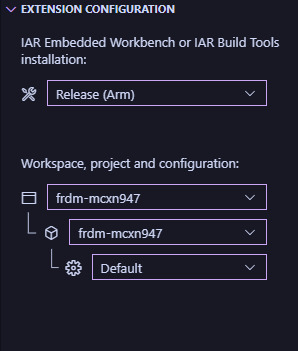
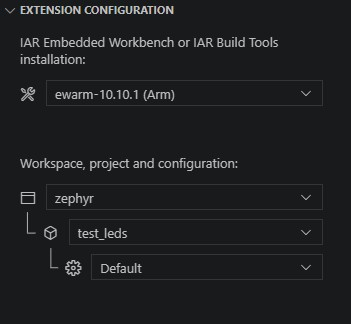
Update documentation
Update the documentation to align with the new workflow.

Changed region(s): [[0.0604, 0.4321, 0.906, 0.8642], [0.0604, 0.0926, 0.9362, 0.3395], [0.0, 0.0, 0.604, 0.0617]]

diff --git a/docs/compiling-debugging.md b/docs/compiling-debugging.md
@@ -1,56 +1,25 @@
 ## Compiling and Debugging with EWARM
-Once you have everything set up from the previous steps, you are ready to start compiling and debugging demo projects using Embedded Workbench.
-
-### Creating Initial Builds with West
-Before building and debugging one of the sample projects inside Embedded Workbench, you first have to make an initial build using Zephyr's ``west`` command line tool.
-The reason for this is because the initial build using ``west`` produces necessary build files and configurations for your specific application and target system that gets cached in the build folder for later builds with Embedded Workbench.
-
-``west`` should be installed and ready to use after having followed the [Zephyr Setup Guide](./zephyr.md).
-Follow one of the below sections depending on the board you are building for, replacing the paths in the command with the correct paths for your system:
-
-#### nRF52840 DK
-```bash
-west build -b nrf52840dk/nrf52840 -d <path-to-nrf52840dk-folder>/workbench/build <path-to-nrf52840dk-folder>/led_carousel -p -- -DCONFIG_USE_SEGGER_RTT=n
-```
-
-#### micro:bit
-```bash
-west build -b bbc_microbit -d <path-to-microbit-folder>/workbench/build <path-to-microbit-folder>/snake -p
-```
-
-#### FRDM-MCXN947
-```bash
-west build -b frdm_mcxn947/mcxn947/cpu0 -d <path-to-frdm_mcxn947-folder>/workbench/build <path-to-frdm_mcxn947-folder>/blinky -p
-```
-
-#### STM32F429II-ACA
-```bash
-west build -b stm32f429ii_aca -d <path-to-stm32f429ii_aca-folder>/test_leds/workbench/build <path-to-stm32f429ii_aca-folder>/test_leds/zephyr-project -p
-```
-
-Building with ``west`` is only necessary for the first build.
-Afterwards, for each modification to the program it can be compiled using EWARM.
+Once you have everything set up from the previous steps, you are ready to start compiling and
+debugging your project using Embedded Workbench.
 
 ### Building a Project using EWARM
-Once you have done an initial build using ``west`` of the sample project you are testing, it is ready to be built with EWARM:
+Once you have done an initial build using `west` of the sample project you are testing, it is ready
+to be built with EWARM. To build your project in EWARM press **F7** or navigate to
+**Project -> Make** to build the project.
 
-1. Open up the EWARM IDE. From your EWARM installation folder, the executable for the IDE is located at *``common\bin\IarIdePm.exe``*.
-2. Navigate to **File -> Open Workspace...**
-3. In your file browser, navigate to the *``workbench``* folder of the sample you want to build for and select the workspace file (.eww file extension, "IAR IDE Workspace" file type).
-4. Press **F7** or navigate to **Project -> Make** to build the project.
-
-This will build the project with the output folder being the same build folder used in the ``west`` command.
-Each time a change is made to the application being built, it is detected and will be compiled when building with **Project -> Make**.
-If you want to rebuild the project again regardless of if there are no changes, navigate to **Project -> Rebuild All**.
+This will build the project with the output folder being the same build folder used in the `west`
+command. Each time a change is made to the application being built, it is detected and will be
+compiled when building with **Project -> Make**. If you want to rebuild the project again
+regardless of if there are no changes, navigate to **Project -> Rebuild All**.
 
 ### Debugging a Project using EWARM
 1. Make sure the target device is connected to your computer.
-    > [!NOTE]
-    > It is a good idea to not have multiple devices connected and only the target device.
-    >
-    > This may simplify device selection for the debugger,
-    > and might be especially of note if you have two or more devices that use the same debugger driver.
-    >
+> [!NOTE]
+> It is a good idea to not have multiple devices connected and only the target device.
+>
+> This may simplify device selection for the debugger,
+> and might be especially of note if you have two or more devices that use the same debugger driver.
+>
 2. Start a debugging session by pressing **Ctrl+D** or navigating to **Project -> Download and Debug**.
 3. If the debugging session started successfully, you will get this menu in the toolbar to control the debugging session:
 
@@ -67,6 +36,6 @@ Here you can choose from a few things, like for instance **Thread List**, which 
 
 [Next: Visual Studio Code Integration](./vscode-integration.md)
 
-[Previous: Required Environment Variables](./environment-variables.md)
+[Previous: Initial build and creating project](./creating-project.md)
 
 [Back to README](../README.md)

diff --git a/docs/vscode-integration.md b/docs/vscode-integration.md
@@ -1,3 +1,4 @@
+
 ## Visual Studio Code integration
 IAR maintains two VS Code extensions which embed compiling and debugging functionality of Embedded Workbench inside of VS Code.
 
@@ -5,13 +6,16 @@ IAR maintains two VS Code extensions which embed compiling and debugging functio
 The easiest way to download the extensions is from the VS Code Marketplace:
 
 1. From within VS Code, press **Ctrl+Shift+x** to open the Extensions panel.
-2. Paste ``@publisher:IAR`` into the search bar. This will bring up the two extensions maintained by IAR, "IAR Build" and "IAR C-SPY Debug".
-3. Install both extensions.
+2. Paste `@publisher:IAR` into the search bar. This will bring up the extensions maintained by IAR.
+3. Install `IAR Tools Extension Pack` to install all relevant extensions.
 
 ### Opening an Embedded Workbench Project in VS Code
-1. Open the folder containing the Embedded Workbench project you want to test by pressing **Ctrl+k Ctrl+o**, or navigating to **File -> Open Folder...**
-2. After you installed the extensions in the previous step, a new view "IAR Build" should have popped up in the Activity Bar to the left which you can click on.
-3. From the "IAR Build" view, under the "Extension Configuration" section specify the path to the IAR Embedded Workbench installation folder as shown in the image below:
+1. Open the folder containing the Embedded Workbench project you want to test by pressing
+   **Ctrl+k Ctrl+o**, or navigating to **File -> Open Folder...**
+2. After you installed the extensions in the previous step, a new view "IAR Build" should have
+   popped up in the Activity Bar to the left which you can click on.
+3. From the "IAR Build" view, under the "Extension Configuration" section specify the path to the
+   IAR Embedded Workbench installation folder as shown in the image below:
 
     ![IAR VS Code Extension Configuration](images/vscode-iar-config.jpg)
 
@@ -28,19 +32,15 @@ This will simply build the project inside of VS Code according to the settings s
 When you build the project, a terminal opens up showing the build output messages.
 
 ### Debugging with the IAR C-SPY Debug Extension
-1. To start a new debugging session, first press **F5** or navigate to **Run -> Start Debugging**.
-2. In the search bar that pops up, enter "iar" and click on "IAR C-SPY Debug".
+1. To prepare for debugging in VS Code, first copy `launch.json` from the build directory to the
+   `.vscode` directory.
+2. Remove the `"plugins"` property in the new `launch.json`.
+
+To start the debug session, simply press **F5** or navigate to **Run -> Start Debugging**.
 
 Once the debug session has been loaded up, the debug toolbar shown in the image below will appear which can be used to control the debugging session:
 
 ![VS Code Debug Toolbar](images/vscode-debug-toolbar.jpg)
-
-#### Bug: Unresponsive Debugger After Resetting During Execution
-Be aware that some debugger drivers do not support resetting the debugging session while it is executing. 
-While debugging in EWARM, this should not be a problem.
-Due to a bug in VS Code however, if a restart request fails after you have started executing the program, the debugger will become unresponsive.
-At that point, you can try pressing **Shift+F5** or clicking on the stop button in the debug toolbar to try stopping the debugging session, and then start a new one.
-Be aware that the the debug toolbar might remain unresponsive and will not disappear even when you stop the debugging session, until a new debugging session is started.
 
 ---
 

diff --git a/docs/creating-project.md b/docs/creating-project.md
@@ -1,0 +1,66 @@
+## Initial build and creating project
+Before building and debugging one of the sample projects inside Embedded Workbench, you first have
+to make an initial build using Zephyr's `west` command line tool. The reason for this is because
+the initial build using `west` produces necessary build files and configurations for your
+specific application and target system that gets cached in the build folder for later builds with
+Embedded Workbench.
+
+### Initial build
+`west` should be installed and ready to use after having followed the [Zephyr Setup Guide](./zephyr.md).
+Follow the instructions for the sample project you want to build, replacing the paths in the
+command with the correct paths for your system:
+
+#### Test leds
+```bash
+west build -b stm32f429ii_aca -d <path-to-desired-build-directory> <path-to-this-repository>/boards/stm32f429ii_aca/test_leds -p
+```
+
+#### Toggle car light
+```bash
+west build -b stm32f429ii_aca -d <path-to-desired-build-directory> <path-to-this-repository>/boards/stm32f429ii_aca/toggle_car_light -p
+```
+
+#### Traffic situation
+```bash
+west build -b stm32f429ii_aca -d <path-to-desired-build-directory> <path-to-this-repository>/boards/stm32f429ii_aca/traffic_situation -p
+```
+
+Building with `west` is only necessary for the first build.
+Afterwards, for each modification to the program it can be compiled using EWARM.
+
+### Generate launch.json
+EWARM uses a file named `launch.json` to set debugger settings. This file can be generated with the
+`west debug` command. This way EWARM will have the correct device selected and the Zephyr Debugger
+plugin will be enabled as soon as the EWARM project is created. 
+
+At this step you have to specify the probe if you are not using the default. This is done with the
+`--driver` option. You can also specify a symbol to break at (e.g. `main`) with the
+`--stop-on-symbol` option.
+
+```bash
+west debug -r iar -g -d <path-to-build-directory-from-build-command>
+```
+
+> [!NOTE]
+> If you omit the `-g` flag, Embedded Workbench will launch with a temporary project to debug
+> immediately, which is useful if you only want to debug and not develop in EWARM
+
+### Create EWARM project
+Now that you have an initial build of the project, you can create an EWARM project for it. 
+
+1. Open up the EWARM IDE. From your EWARM installation folder, the executable for the IDE is
+   located at *`common\bin\iaride.exe`*.
+2. Navigate to **Project -> Add or Create -> Create New Project...**
+3. Select `Attach to pre-configured CMake directory`.
+4. Browse to the build directory created by west.
+5. Select where to save the EWARM project files.
+
+Now you have an EWARM project where you can build, develop and debug your zephyr application. 
+
+---
+
+[Next: Compiling and Debugging with Embedded Workbench](./compiling-debugging.md)
+
+[Previous: Required Environment Variables](./environment-variables.md)
+
+[Back to README](../README.md)

diff --git a/docs/embedded-workbench.md b/docs/embedded-workbench.md
@@ -1,18 +1,20 @@
 ## Embedded Workbench and IAR Tools Setup
-Embedded Workbench is an IDE produced by IAR Systems that is specialized for work with embedded systems.
-It includeds tools such as a code editor, a compiler, a linker, and a debugger, and supports many different architectures and devices.
-In each demo project provided through this repository, a subfolder named *``workbench``* is included which contains the files necessary to run each demo project inside of Embedded Workbench.
+Embedded Workbench is an IDE produced by IAR Systems that is specialized for work with embedded
+systems. It includeds tools such as a code editor, a compiler, a linker, and a debugger, and
+supports many different architectures and devices.
 
 ### Installation
 
 #### Embedded Workbench for ARM
-Embedded Workbench for ARM, or EWARM for short, is fitted to work with systems that use the ARM processor architecture.
-Install version 9.70.X or higher of EWARM to get a version that supports work with Zephyr.
+Embedded Workbench for ARM, or EWARM for short, is fitted to work with systems that use the ARM
+processor architecture. Install version 10.10.X or higher of EWARM to get a version that supports
+project generation from Zephyr.
 
 #### Optional: IAR Standalone Compiler Toolchain
-Embedded Workbench is a fully-fledged IDE, containing all the necessary tools to program, build, and debug a project.
-However, there is a possibility to install a standalone version of the IAR build tools.
-Simply head over to [this github releases page](https://github.com/iarsystems/zephyr-iar/releases) to download and install the latest version of the IAR ARM build tools somewhere on your system.
+Embedded Workbench is a fully-fledged IDE, containing all the necessary tools to program, build,
+and debug a project. However, there is a possibility to install a standalone version of the IAR
+build tools. Simply head over to [this github releases page](https://github.com/iarsystems/arm/releases)
+to download and install the latest version of the IAR ARM build tools somewhere on your system.
 This can be used later to compile an initial build for a sample project.
 
 ---

diff --git a/docs/environment-variables.md b/docs/environment-variables.md
@@ -15,20 +15,20 @@ set IAR_TOOLCHAIN_PATH=<your-toolchain-path-here>\arm
 set IAR_LMS_BEARER_TOKEN=<your-license-bearer-token-here>
 ```
 
-``ZEPHYR_TOOLCHAIN_VARIANT`` is used by Zephyr to set the compiler toolchain variant to use.
-In this case, it is set to ``iar`` in order for Zephyr to use IAR's compiler toolchain to compile applications.
+`ZEPHYR_TOOLCHAIN_VARIANT` is used by Zephyr to set the compiler toolchain variant to use.
+In this case, it is set to `iar` in order for Zephyr to use IAR's compiler toolchain to compile
+applications.
 
-``IAR_TOOLCHAIN_PATH`` is used to set the path to the IAR compiler toolchain, which is needed for the next steps when compiling an initial build using Zephyr tools.
-There are two options for this, and depending on what you installed in the [previous guide](./embedded-workbench.md) you can choose at least option 1: 
+`IAR_TOOLCHAIN_PATH` is used to set the path to the IAR compiler toolchain, which is needed for
+the next steps when compiling an initial build using Zephyr tools. This is either EWARM's built in
+compiler toolchain at `<path-to-your-EWARM-installation>\arm` or the standalone IAR ARM Build Tools
+at `<path-to-your-iar-arm-build-tools-installation>\arm`.
 
-1. It can be set to EWARM's built-in ARM compiler toolchain at *``<path-to-your-EWARM-installation>\arm``*.
-2. If installed in the previous guide, it can be set to the standalone IAR ARM Build Tools at *``<path-to-your-iar-arm-build-tools-installation>\arm``*.
-
-``IAR_LMS_BEARER_TOKEN`` is used to set a valid IAR license bearer token, which is required to authenticate your usage of IAR tools.
+`IAR_LMS_BEARER_TOKEN` is used to set a valid IAR license bearer token, which is required to authenticate your usage of IAR tools.
 
 ---
 
-[Next: Compiling and Debugging with Embedded Workbench](./compiling-debugging.md)
+[Next: Initial build and creating project](./creating-project.md)
 
 [Previous: Embedded Workbench and IAR Tools Setup](./embedded-workbench.md)
 

diff --git a/README.md b/README.md
@@ -1,10 +1,7 @@
 ## About
-This repository serves as a reference for using the Zephyr RTOS together with tools made by IAR Systems.
-The repository contains Zephyr application samples for various boards combined with IAR tools integration, and related tutorials linked to in this README.
-
-### Board Samples Folder Structure
-Each board demo is located as a subfolder in the *``boards``* parent directory.
-Each board folder contains two subfolders, one for the Zephyr sample application, and one named *``workbench``* to be used with IAR tools.
+This repository serves as a reference for using the Zephyr RTOS together with tools made by IAR
+Systems. The repository contains Zephyr application samples for the STM32F429II-ACA board and
+instructions for how to create an Embedded Workbench project based on it.
 
 ## Guides
 > [!IMPORTANT]
@@ -18,10 +15,10 @@ Each board folder contains two subfolders, one for the Zephyr sample application
 > It is highly recommended to follow these guides as they are ordered below.
 >
 
-1. [Device Specifics](docs/device-specifics.md)
-2. [Zephyr Setup](docs/zephyr.md)
-3. [Embedded Workbench and IAR Tools Setup](docs/embedded-workbench.md)
-4. [Required Environment Variables](docs/environment-variables.md)
+1. [Zephyr Setup](docs/zephyr.md)
+2. [Embedded Workbench and IAR Tools Setup](docs/embedded-workbench.md)
+3. [Required Environment Variables](docs/environment-variables.md)
+4. [Initial build and creating project](docs/creating-project.md)
 5. [Compiling and Debugging with Embedded Workbench](docs/compiling-debugging.md)
 6. [Visual Studio Code Integration](docs/vscode-integration.md)
 

diff --git a/docs/zephyr.md b/docs/zephyr.md
@@ -1,16 +1,16 @@
 ## Zephyr Setup
-Zephyr is an open-source, real-time operating system (RTOS) for resource-constrained and embedded devices.
-It works on multiple archtictures, and has support for [many different devices](https://docs.zephyrproject.org/latest/boards/#).
-Using Zephyr provides an extensive ecosystem including a kernel, libraries, device drivers, and file systems that simplify developing applications for embedded systems.
+Zephyr is an open-source, real-time operating system (RTOS) for resource-constrained and embedded
+devices. It works on multiple archtictures, and has support for [many different devices](https://docs.zephyrproject.org/latest/boards/#).
+Using Zephyr provides an extensive ecosystem including a kernel, libraries, device drivers, and
+file systems that simplify developing applications for embedded systems.
 
 ### Zephyr Installation
 Follow Zephyr's official [getting started guide](https://docs.zephyrproject.org/latest/develop/getting_started/index.html).
-This will give you a complete guide to setting up a Zephyr installation on your system, which is needed to compile and debug the sample projects.
+This will give you a complete guide to setting up a Zephyr installation on your system, which is
+needed to compile and debug the sample projects.
 
 ---
 
 [Next: Embedded Workbench and IAR Tools Setup](./embedded-workbench.md)
-
-[Previous: Device Specifics](./device-specifics.md)
 
 [Back to README](../README.md)
